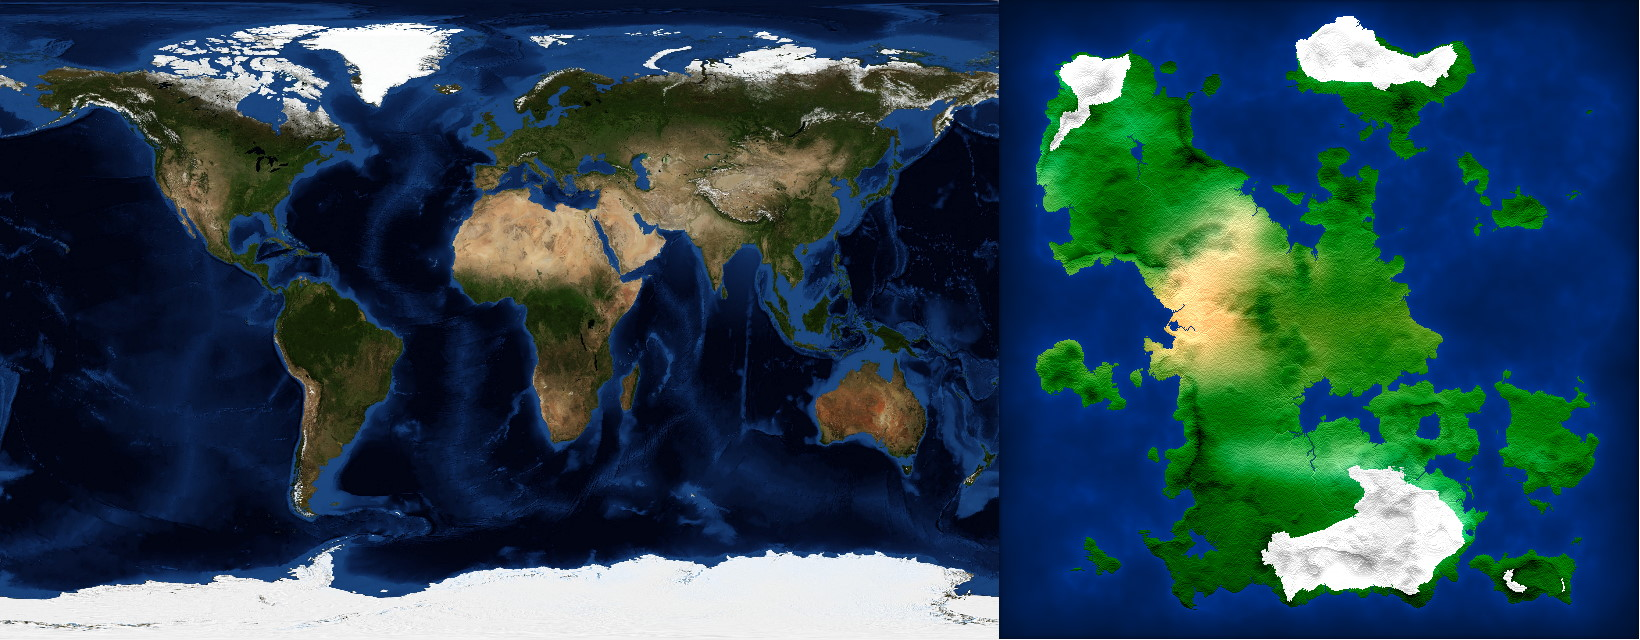
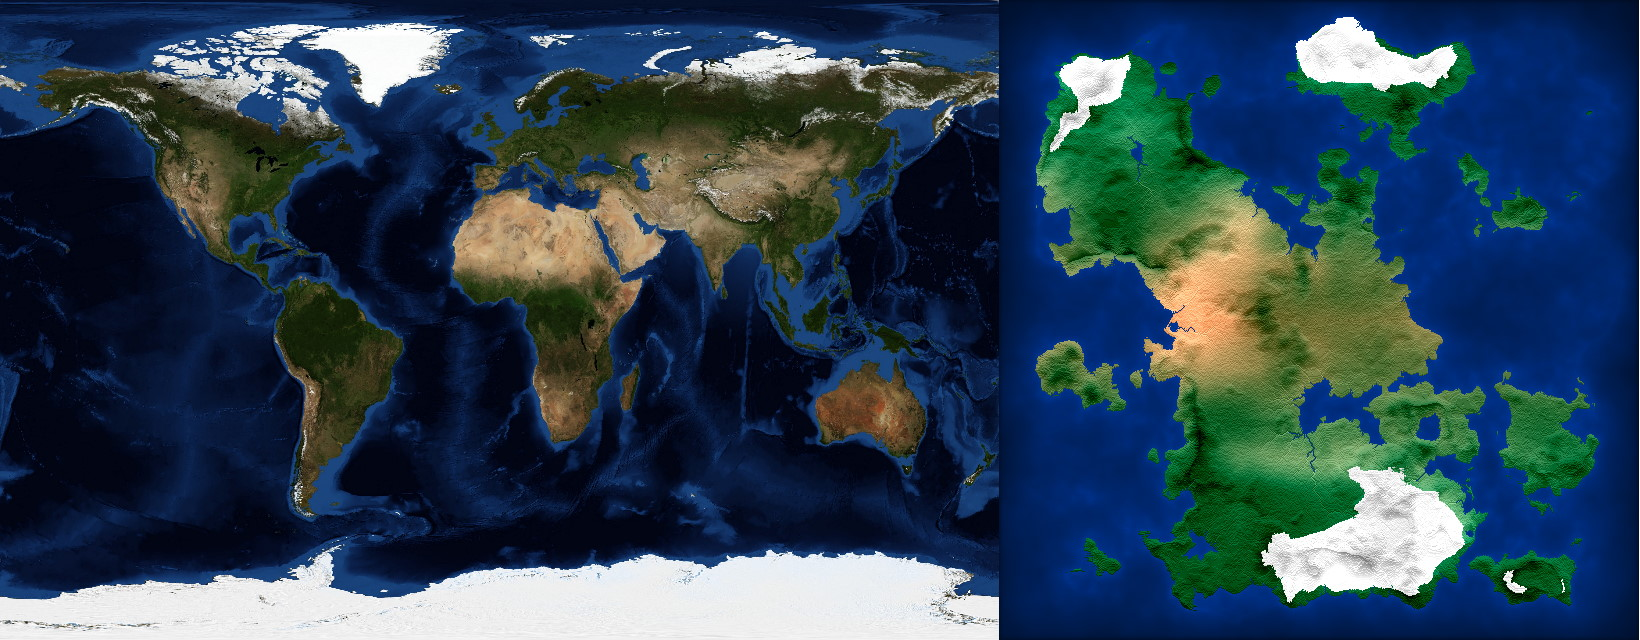
More readme, slight color change on photo.

Changed region(s): [[0.622, 0.0625, 0.9951, 0.9688], [0.8707, 0.25, 0.964, 0.375]]

diff --git a/worldgen.js b/worldgen.js
@@ -277,20 +277,19 @@ function generateMap({
     if (elevation[i] < 0)
       return [0, (1 + elevation[i]) * 55, (1 + elevation[i]) * 155, 255];
     else
-      return [100 - w * 600 + temperature[i] * 5, 200 - w * 200, 130 - w * 300]
+      return [100 - w * 400 + temperature[i] * 4, 160 - w * 150, 100 - w * 150]
         .map(
           (v) =>
             (temperature[i] < 0 ? 255 : v) +
             -elevation[i] * 140 +
+            50 +
             25 *
-              (2 +
-                Math.atan(
-                  ((elevation[
-                    i + width * (i > (width * height) / 2 ? 1 : -1)
-                  ] || 0) -
-                    1 * elevation[i]) *
-                    120
-                ))
+              Math.atan(
+                ((elevation[i + width * (i > (width * height) / 2 ? 1 : -1)] ||
+                  0) -
+                  1 * elevation[i]) *
+                  120
+              )
         )
         .concat([255]);
   });

diff --git a/README.md b/README.md
@@ -7,8 +7,10 @@ Fairly fast, fairly simple and fairly realistic terrain generator.
 
 I tried to make a terrain generator that is simpler and easier to understand, yet sufficiently good.
 
-I don't use Voronoi or any other polygonal partition - it's a simple 2d grid.
+I don't use Voronoi or any other polygonal partition - it's a simple 2d grid, rectangular and/or hexagonal (depending on stage).
 That lets me use canvas drawing for accelerating certain taxing simulation step.
+
+I was using Earth maps for the reference of what I want to get. I will show them alongside with my program's outputs for comparison.
 
 So, it works as follows.
 
@@ -22,6 +24,7 @@ on canvas and using their sum. Btw, it allows writing a simple terrain generatio
 what I use is just a bit more complex: instead of circles, I use ellipses that have opacity gradually reduce from center to edges.
 
 # Tectonics 
+
 
 ![Tectonics](/screenshots/TectonicsSimulation.jpg)
 
@@ -137,3 +140,30 @@ Also, TUNDRA becomes MOUNTAIN at the altitude above 0.5.
 Algorithm is similar to biomes, but is more gradient. Generally, it is yellower/whiter in dry area, greener/darker in humid areas,
 blacker at high altitudes, white below 0 Celsius, lighter on equator-side slopes and darker on opposing slopes.
 
+# Hexagonal map
+
+Finally a hexagonal game map is made. Let's call map that we made by now a "terrain map", and hexagonal map a "game map".
+First, a list is made that links the game map cells (aka "hex") and dots on terrain map.
+
+Then, for each hex we take corresponding dot's elevation, temperature, humidity and tectonic activity and assign a terrain types.
+
+Depending on terrain, hex can have "cover" (shallow grass, dense grass, sand and snow), vegetation (currently only forest), erection (hill or mountain), water (sea). Those can combine, for example, it can be a sandy hill, or even snowy water. Latter case can affectthe look of the shores if this tile is next to the land, for example.
+
+Algorithm is similar to the biome calculation, but has different possible variant and some added randomness. 
+
+# Hex rivers
+
+Then, (yet again) river simulation happens. We have to do it here instead of taking data from river simulation on earlier stage, because, well those do not convert well to big hex cells.
+
+So, algorithm is similar, we take random point and launch stream downwards. Chance of hex being chosen as a starting point depends on it's altitude and humidity.
+We do not emulate erosion/edimentations now. If we can't reach the deep water, we just abort entire stream. Also, we remember the direction of the stream, and always prefer to join the already existing stream, instead of going to lowest nearby cell, if possible.
+
+We need to know the stream direction, so we can properly display three adjacent cells with rivers (i.e. avoid them forming a triangle). 
+
+We only cound hex a river if at least 4 streams have flown there, to avoid having too many short rivers.
+
+# Towns and roads
+
+Town positioning uses very simple algorithm - it just adds some values for certain terrain traits (such as river, mountain etc) on and near the town cell, and make a random roll depending on it.
+
+Then from each city, a shortest path to the nearest town is found and road is build on it. This considers the movement costs, insluding effect of already present roads.
